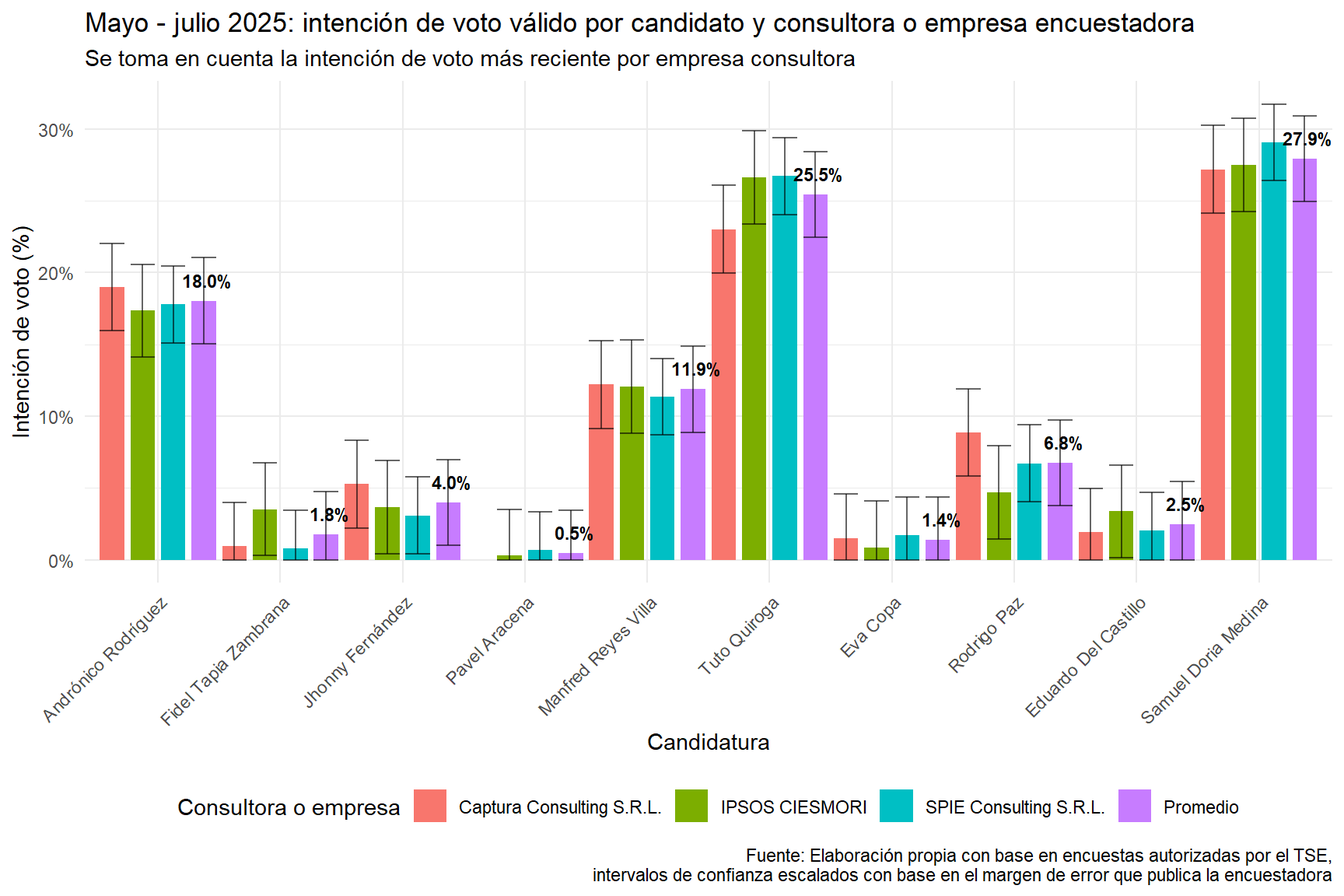
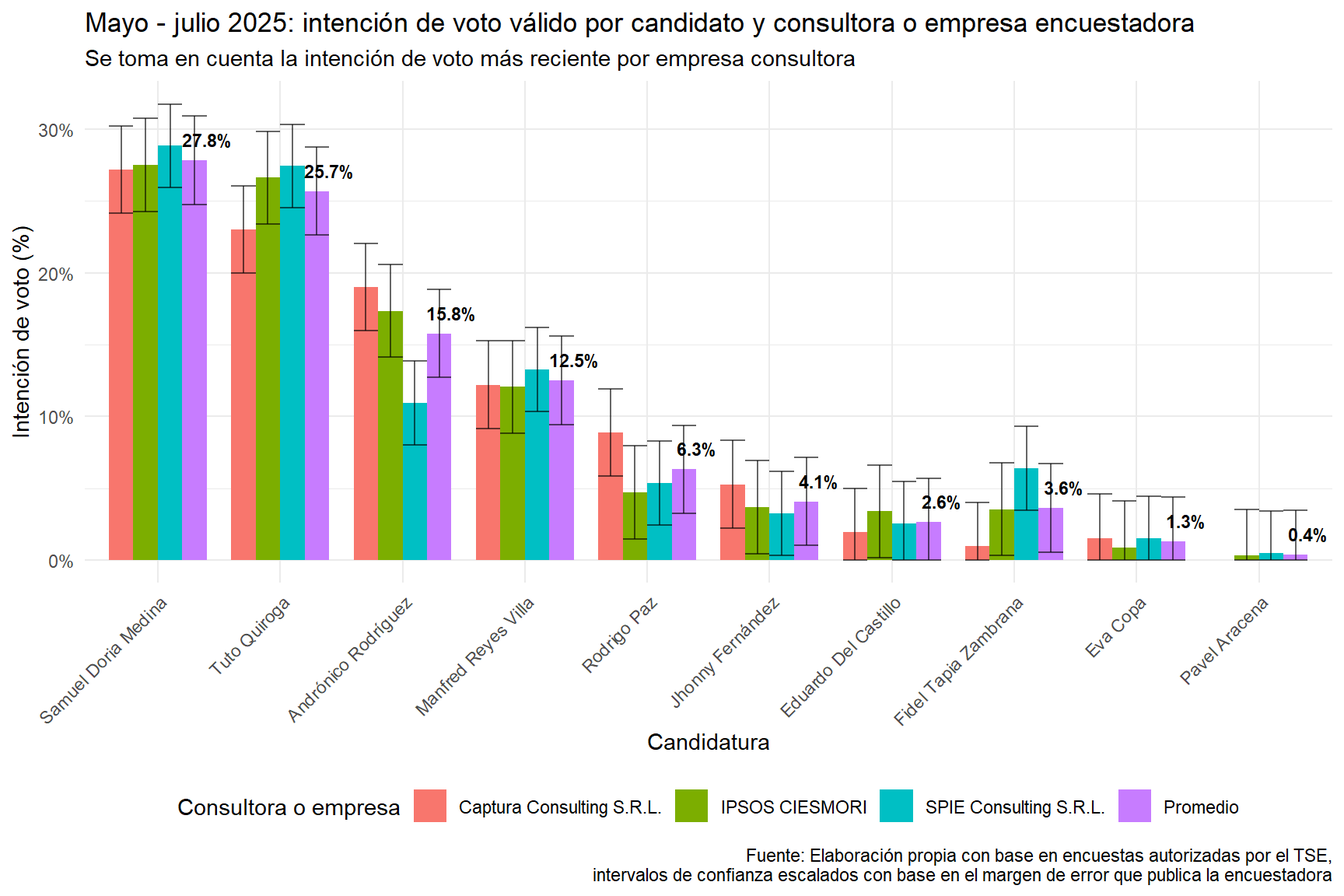
Built site for gh-pages

diff --git a/index.html b/index.html
@@ -101,6 +101,10 @@ ul.task-list li input[type="checkbox"] {
     <a class="nav-link" href="./#gráficos-de-intención-de-votos-válidos" rel="" target="">
  <span class="menu-text">Intención de voto válido</span></a>
   </li>  
+  <li class="nav-item">
+    <a class="nav-link" href="./#voto-oculto-y-precisión-de-las-encuestas-en-las-últimas-elecciones" rel="" target="">
+ <span class="menu-text">Voto oculto y precisión encuestadoras</span></a>
+  </li>  
 </ul>
             <ul class="navbar-nav navbar-nav-scroll ms-auto">
   <li class="nav-item compact">
@@ -128,6 +132,14 @@ ul.task-list li input[type="checkbox"] {
   <li><a href="#intención-de-voto-bolivia-última-encuesta-disponible" id="toc-intención-de-voto-bolivia-última-encuesta-disponible" class="nav-link" data-scroll-target="#intención-de-voto-bolivia-última-encuesta-disponible">Intención de voto Bolivia: Última encuesta disponible</a></li>
   <li><a href="#gráficos-de-intención-de-voto-total" id="toc-gráficos-de-intención-de-voto-total" class="nav-link" data-scroll-target="#gráficos-de-intención-de-voto-total">Gráficos de intención de voto total</a></li>
   <li><a href="#gráficos-de-intención-de-votos-válidos" id="toc-gráficos-de-intención-de-votos-válidos" class="nav-link" data-scroll-target="#gráficos-de-intención-de-votos-válidos">Gráficos de intención de votos válidos</a></li>
+  <li><a href="#voto-oculto-y-precisión-de-las-encuestas-en-las-últimas-elecciones" id="toc-voto-oculto-y-precisión-de-las-encuestas-en-las-últimas-elecciones" class="nav-link" data-scroll-target="#voto-oculto-y-precisión-de-las-encuestas-en-las-últimas-elecciones">Voto oculto y precisión de las encuestas en las últimas elecciones</a>
+  <ul class="collapse">
+  <li><a href="#las-encuestas-en-la-elección-de-2019" id="toc-las-encuestas-en-la-elección-de-2019" class="nav-link" data-scroll-target="#las-encuestas-en-la-elección-de-2019">Las encuestas en la elección de 2019</a></li>
+  <li><a href="#el-regreso-del-mas-ipsp-la-elección-de-2020" id="toc-el-regreso-del-mas-ipsp-la-elección-de-2020" class="nav-link" data-scroll-target="#el-regreso-del-mas-ipsp-la-elección-de-2020">El regreso del MAS-IPSP: la elección de 2020</a></li>
+  <li><a href="#estimación-del-voto-oculto" id="toc-estimación-del-voto-oculto" class="nav-link" data-scroll-target="#estimación-del-voto-oculto">Estimación del voto oculto</a></li>
+  </ul></li>
+  <li><a href="#qué-se-puede-esperar-del-voto-oculto-para-las-elecciones-de-2025" id="toc-qué-se-puede-esperar-del-voto-oculto-para-las-elecciones-de-2025" class="nav-link" data-scroll-target="#qué-se-puede-esperar-del-voto-oculto-para-las-elecciones-de-2025">¿Qué se puede esperar del voto oculto para las elecciones de 2025?</a></li>
+  <li><a href="#agradecimientos" id="toc-agradecimientos" class="nav-link" data-scroll-target="#agradecimientos">Agradecimientos</a></li>
   </ul>
 </nav>
 </nav>
@@ -141,7 +153,7 @@ ul.task-list li input[type="checkbox"] {
 <header id="title-block-header" class="quarto-title-block default">
 <div class="quarto-title">
 <h1 class="title">Encuesta de encuestas: Elecciones Generales Bolivia 2025</h1>
-<p class="subtitle lead">Última actualización: 14 de julio de 2025</p>
+<p class="subtitle lead">Última actualización: 16 de julio de 2025</p>
 </div>
 
 <div>
@@ -175,6 +187,7 @@ ul.task-list li input[type="checkbox"] {
 
 <section id="registro-de-cambios" class="level2">
 <h2 class="anchored" data-anchor-id="registro-de-cambios">Registro de cambios</h2>
+<p><strong>16/07/2025:</strong> Se añaden tres nuevas secciones: una sobre el voto oculto histórico y la precisión histórica de las encuestadoras tomando como referencia las elecciones de 2019 y 2020; otra sobre prospectiva del voto oculto en estas elecciones; y una de agradecimientos. Se añaden los datos de la última encuesta de SPIE publicada por El Deber el día de hoy, queda pendiente la reinterpretación a la luz de los últimos datos. Modificaciones estéticas menores. ¡Felicidades La Paz! :)</p>
 <p><strong>14/07/2025</strong>: Se introducen algunas ideas a la luz de los datos arrojados por la última encuesta de IPSOS CIESMORI. Se actualiza la presentación.</p>
 <p><strong>13/07/2025</strong>: Se añaden los datos de la última encuesta de IPSOS CIESMORI publicada por UNITEL el 13 de julio de 2025. Se optimiza el código para mostrar los promedios de campaña en función de la encuesta más reciente de cada consultora o empresa encuestadora (i.e.&nbsp;IPSOS CIESMORI es la única empresa que cuenta con dos encuestas durante el periodo de campaña, el cálculo de los promedio se hace con la intención de voto de su encuesta publicada hoy, es decir, el más reciente). Se añade nueva sección con los valores de intención de voto de la encuesta más reciente. Dado que NGP se ha retirado de la carrera electoral sus valores quedarán como perdidos de ahora en adelante. Se añaden rectas verticales marcando algunos hitos como el inicio de campaña, el primer debate y la inhabilitación de Jaime Dunn.</p>
 <p><strong>02/07/2025</strong>: Ante la inhabilitación de Jaime Dunn se cambia la etiqueta de candidato de NGP a Fidel Tapia Zambrana. La salida de Antonio Saravia también deja como el único candidato visible a Pavel Aracena por LyP-ADN. Modificaciones estéticas en gráficas de intención de voto para que den cuenta de la fecha del fin del levantamiento de las encuestas, se agrupó mayo y junio para gráficas de intención voto desde el inicio de campaña.</p>
@@ -198,9 +211,9 @@ ul.task-list li input[type="checkbox"] {
 </section>
 <section id="intención-de-voto-bolivia-última-encuesta-disponible" class="level2">
 <h2 class="anchored" data-anchor-id="intención-de-voto-bolivia-última-encuesta-disponible">Intención de voto Bolivia: Última encuesta disponible</h2>
-<p>Fecha de publicación: 13 de julio</p>
-<p>Consultora o empresa encuestadora: IPSOS CIESMORI</p>
-<p>Medio de publicación: UNITEL</p>
+<p>Fecha de publicación: 16 de julio</p>
+<p>Consultora o empresa encuestadora: SPIE Consulting S.R.L.</p>
+<p>Medio de publicación: El Deber</p>
 <div class="cell">
 <div class="cell-output-display">
 <p><img src="index_files/figure-html/grafico-ultimaencuesta-1.png" class="img-fluid" width="864"></p>
@@ -266,6 +279,285 @@ Asumiendo que, en etapas finales, alrededor del 5% de los votos serán nulos o b
 </div>
 </div>
 <p>En la virtual situación de que la elección fuera este fin de semana y que los indecisos no tomen partido alguno, la segunda vuelta sería contendida por Samuel Doria Medina y Tuto Quiroga Ramírez.</p>
+</section>
+<section id="voto-oculto-y-precisión-de-las-encuestas-en-las-últimas-elecciones" class="level2">
+<h2 class="anchored" data-anchor-id="voto-oculto-y-precisión-de-las-encuestas-en-las-últimas-elecciones">Voto oculto y precisión de las encuestas en las últimas elecciones</h2>
+<p>Esta sección revisará brevemente el comportamiento del voto oculto y la calidad predictiva de las consultoras comparando las últimas encuestas disponibles previas a las elecciones de 2019 y 2020, respectivamente. No es pretensión de este texto profundizar en la discusión sobre el golpe de estado en 2019, sin embargo, resultará inevitable abordar el asunto al momento de describir las cifras. Es importante señalar que los datos oficiales que se muestran aquí no coinciden con los resultados oficiales reportados por el Tribunal Supremo Electoral en ambas elecciones, esto se debe a que el TSE informa sobre los votos válidos, es decir, excluye los votos nulos y blancos para el cálculo de los porcentajes. Para fines de comparabilidad con los datos de las encuestadoras, se recalcularon las proporciones para que la votación de las candidaturas, blancos y nulos sumen el 100%.</p>
+<section id="las-encuestas-en-la-elección-de-2019" class="level3">
+<h3 class="anchored" data-anchor-id="las-encuestas-en-la-elección-de-2019">Las encuestas en la elección de 2019</h3>
+<p>Si bien fueron cuestionados, el análisis se basa en los resultados electorales oficiales publicados por el Tribunal Supremo Electoral. Al respecto, las encuestas de IPSOS y VIA CIENCIA fueron las más cercanas al resultado oficial reportado por el TSE; para el segundo lugar (Carlos D. Mesa) VIA CIENCIA y la UMSA son las que mostraron las estimaciones más próximas, aunque alejadas. Si observamos los intervalos de confianza, ni una sola de las encuestadoras estuvo próxima a los resultados oficiales de los dos primeros lugares en términos estadísticos.</p>
+<p>Si hablamos de los niveles de votos nulos y blancos, IPSOS fue la consultora que mejor estimó estas votaciones, y sus indecisos tendrían que haberse repartido de la siguiente manera, ~9% hacia Comunidad Ciudadana y ~4% hacia el MAS-IPSP, solo así se acercaría al resultado oficial. VIA CIENCIA también muestra una estimación aceptable de nulos y blancos, pero sus niveles de indecisión no cierran cuando se intenta repartirlos entre el primer y segundo lugar. Igualmente, todas las encuestadoras sin excepción sobre-estimaron el cuarto lugar (Oscar Ortíz) y subestimaron al <em>outsider</em> de esta elección, Chi Hyng Chung (PDC), que quedó tercero.</p>
+<div class="cell">
+<div class="cell-output-display">
+<p><img src="index_files/figure-html/grafico-2019-1.png" class="img-fluid" width="864"></p>
+</div>
+</div>
+<p>Es cuando menos improbable que todas las encuestas estén mal, el muestreo y la estimación estadística son disciplinas cuyo objetivo es dar grados de certeza administrando la incertidumbre de una manera científica -esto se hace calculando los márgenes de error del estudio y su nivel de confianza. No son una ciencia exacta, pero sí manejan parámetros de confiabilidad que, cuando se hacen bien, reflejan el comportamiento de la población que buscan representar, en este caso, la votación. A la luz de esto, “entusiastas” de la tesis del fraude podrían decir que la distorsión vino de la manipulación de la votación a favor del oficialismo. No obstante, de haber sucedido, no tiene sentido que todas las encuestadoras también hayan subestimado por tanto la votación de Carlos D. Mesa (Comunidad Ciudadana), principal opositor de Evo Morales en esas elecciones.</p>
+<p>Lo dicho nos reduce a los siguientes escenarios:</p>
+<ol type="1">
+<li><p>Todas las encuestadoras hicieron un mal diseño muestral (etapa de diseño del estudio), pésimos instrumentos (preguntas mal planteadas o que inducían a ciertas respuestas), un trabajo de campo deficiente (etapa de levantamiento de la información, es decir, personal encuestador poco hábil, que falsea respuestas o una pobre validación) o todas las anteriores. En este caso, los problemas vienen de la capacidad técnica de las empresas. Aquí puede incluirse también la tradicional falencia de las encuestadoras para representar de forma precisa la votación en las áreas rurales, en especial las dispersas, a lo largo del país.</p></li>
+<li><p>La población mostró cambios radicales en su intención de voto durante la semana y media previa a la elección.</p></li>
+</ol>
+<p>Debido a la inexistencia de un evento de importancia (i.e.&nbsp;la revelación del supuesto hijo de Evo con Gabriela Zapata un par de semanas antes del referéndum para la tercera postulación de Morales) que explique el cambio de corazón de las y los electores; y dado que los números tampoco muestran evidencia que permita hablar de una operación armada para tumbar al MAS-IPSP desde lo que reportan las encuestas, todo parece indicar que el escenario más probable es el primero.</p>
+<p>Sin embargo centrémonos en la estimación de la diferencia entre el primer y el segundo lugar, recordemos también que aquí no estamos observando la votación válida sino la total, es decir, que cuando se excluyan los votos nulos y blancos, todos los porcentajes crecen, en especial el primer y el segundo lugar:</p>
+<table class="table">
+<colgroup>
+<col style="width: 32%">
+<col style="width: 17%">
+<col style="width: 27%">
+<col style="width: 20%">
+</colgroup>
+<thead>
+<tr class="header">
+<th><strong>Consultora</strong></th>
+<th><strong>MAS-IPSP</strong></th>
+<th><strong>Comunidad Ciudadana</strong></th>
+<th><strong>Diferencia</strong></th>
+</tr>
+</thead>
+<tbody>
+<tr class="odd">
+<td><strong>Resultados Oficiales TSE</strong></td>
+<td><strong>44.7%</strong></td>
+<td><strong>34.7%</strong></td>
+<td><strong>+10.0%</strong></td>
+</tr>
+<tr class="even">
+<td>IPSOS</td>
+<td>40.0%</td>
+<td>22.0%</td>
+<td><strong>+18.0%</strong></td>
+</tr>
+<tr class="odd">
+<td>VIA CIENCIA</td>
+<td>38.8%</td>
+<td>28.4%</td>
+<td><strong>+10.4%</strong></td>
+</tr>
+<tr class="even">
+<td>CIESMORI</td>
+<td>36.2%</td>
+<td>26.9%</td>
+<td><strong>+9.3%</strong></td>
+</tr>
+<tr class="odd">
+<td>UMSA</td>
+<td>32.3%</td>
+<td>27.0%</td>
+<td><strong>+5.3%</strong></td>
+</tr>
+</tbody>
+</table>
+<p>Esto es importante porque un detonante de la crisis política fue la diferencia muy ajustada que permitía la victoria en primera vuelta. Recordemos que la Constitución y la Ley de Régimen Electoral bolivianas indican que la persona que preside el país es elegida en primera vuelta cuando:</p>
+<ol type="a">
+<li><p>Obtiene el <span class="math inline">\(50\% + 1\)</span> voto de la votación válida.</p></li>
+<li><p>Obtiene más del <span class="math inline">\(40\%\)</span> de votación válida con una diferencia de <span class="math inline">\(10\%\)</span> con el segundo lugar.</p></li>
+</ol>
+<p>Entonces, si tomamos en cuenta el ajuste en los porcentajes por la votación válida, los márgenes de error y los votos indecisos que se estimaron de forma consistente, al menos 3 de 4 consultoras predijeron la victoria del MAS-IPSP con más de 40% de votación y 10% de diferencia con la segunda fuerza política, Comunidad Ciudadana. Por tanto, la tesis del fraude no se sostiene desde el análisis de las encuestas electorales, mientras que el golpe de estado cobra más sentido, mencionaremos un poco más al respecto en la siguiente sección.</p>
+<p>Finalmente, si se hiciera una evaluación de qué consultoras fueron las menos imprecisas, IPSOS y VIA CIENCIA estiman los valores más parecidos al resultado oficial del primer lugar, y los blancos/nulos. Además, captan adecuadamente la diferencia entre el primero y el segundo. CIESMORI también representa bien esta diferencia, aunque subestima el primer y segundo lugar por casi 10 puntos.</p>
+</section>
+<section id="el-regreso-del-mas-ipsp-la-elección-de-2020" class="level3">
+<h3 class="anchored" data-anchor-id="el-regreso-del-mas-ipsp-la-elección-de-2020">El regreso del MAS-IPSP: la elección de 2020</h3>
+<p>Resulta inevitable dar una descripción coyuntural sintética para hablar de la elección de 2020, trataré aquí de presentar algunas ideas y caracterizaciones en las que existen consensos amplios y, en lo posible, despojadas de juicios de valor.</p>
+<p>La movilización de un sector de la población urbana volcada en las calles y la operación política de la dirigencia opositora en octubre y noviembre de 2019 resultaron en la interrupción del mandato constitucional de Evo Morales. El gobierno de Jeanine Añez se gestó de una manera, por decir lo menos, irregular. Pasó de segunda vicepresidenta a presidenta del senado en una sesión convocada por ella misma, sin el quórum suficiente, en la que no se respetó el reglameno de la cámara alta -pues, ante la renuncia de Adriana Salvatierra la presidencia debió recaer en el bloque de mayoría, es decir, el MAS-IPSP, no en su persona. Posteriormente, convocó a una sesión bi-camaral donde anunció que, por sucesión constitucional, asumía como presidenta del país. Trasladándose a Palacio Quemado - ubicado al frente del edificio de la Asamblea Legislativa- unos minutos después, juró como jefa de estado en medio de militares y dirigentes opositores. En este punto, sin importar si existió un fraude electoral o no -pues una irregularidad no es justificación para cometer otra, la forma en que Añez toma la presidencia confirma lo que se ha denominado como “golpe blando”.</p>
+<p>Lo señalado y el accionar de su gobierno devinieron en que su gestión esté marcada por:</p>
+<ol type="1">
+<li><p>La ilegitimidad y la tensión casi constante con el movimiento popular. Pues más allá de si la crisis política devino en un golpe o fue consecuencia de un fraude, Jeanine Añez era una figura desconocida, carente de una base social, legal y política que la respalde más allá de su partido -minoritario en la Asamblea Legislativa.</p></li>
+<li><p>Las masacres de Senkata y Sacaba, que inflamaron al movimiento popular, indígena y campesino, y lo arrojaron de regreso al liderazgo de la entonces oposición masista.</p></li>
+<li><p>La disrupción ocasionada por la pandemia, los constantes escándalos de corrupción y una respuesta gubernamental cuando menos ineficiente -sino negligente, y que además fue usada como excusa para alargar el mandato de un gobierno cuya única tarea era convocar a una nueva elección.</p></li>
+<li><p>El estilo autoritario del entonces Ministro de Gobierno, Arturo Murillo, quien en vez de tender puentes de diálogo con los movimientos sociales, los reprimía, deshumanizaba y criminalizaba.</p></li>
+</ol>
+<p>En este contexto es que se llega a las elecciones de octubre de 2020, en las que el MAS-IPSP participa en las urnas sin su candidato histórico -pues Evo Morales dio un paso al costado y además se encontraba fuera del país en calidad de refugiado. De esta manera, quién tomó la posta fue su ex Ministro de Economía, Luis Arce Catacora, el único miembro del gabinete que no había sido reemplazado durante los 14 años de gestión -solo estuvo fuera del cargo brevemente para atender una enfermedad en 2017, y que era percibido interna y externamente como el artífice del milagro económico boliviano. Arce también apelaba a un voto de la clase media y era un candidato más fácil de digerir para los sectores urbanos que se habían movilizado en las calles durante el golpe de 2019.</p>
+<div class="cell">
+<div class="cell-output-display">
+<p><img src="index_files/figure-html/grafico-2020-1.png" class="img-fluid" width="864"></p>
+</div>
+</div>
+<p>Volvamos a los datos, todos vimos como los resultados de la elección sacudieron al mundo, pues todas las predicciones erraron de forma monumental. Si bien 3 de 4 encuestadoras dieron la victoria a la candidatura que efectivamente ganó la elección, lo hicieron con una votación muchísimo menor. Es necesario matizar que durante esa elección también se veían niveles de indecisión elevados, en el orden del 15% en promedio, pero con grandes variaciones según la encuestadora -i.e.&nbsp;para CIESMORI los indecisos nulos y blancos estaban cerca del 28%, mientras que para la UMSA e IPSOS se encontraban en el orden del 21%.</p>
+<p>De esta manera, ninguna encuestadora previó una victoria en primera vuelta para el MAS-IPSP -más aún, para Mercados y Muestras la victoria era de Comunidad Ciudadana. De cualquier manera, el escrutinio nacional e internacional casi policial con el que se llevó a cabo el proceso electoral no permitió que se repita la narrativa del fraude que había funcionado en 2019. La diferencia entre Arce y Mesa era demasiado amplia para ponerse en duda. El MAS-IPSP ganó por mucho, pero niguna de las encuestadoras lo vio venir.</p>
+<p>IPSOS mostró la estimación puntual más cercana para el primer lugar, aunque quedó cerca de 19% por debajo del resultado oficial, su estimación tampoco muestra diferencias estadísticamente significativas con la UMSA ni CIESMORI. En lo que refiere al segundo lugar, casi todas las encuestadoras estimaron un intervalo de confianza que daba cuenta del resultado final, la excepción fue CIESMORI. Para el tercer lugar sucedió lo mismo que para el segundo.</p>
+<p>Ninguna encuestadora estimó votaciones por encima del 40% y menos una diferencia de 10% entre el primero y el segundo, es decir, las encuestas perfilaban una segunda vuelta. En este punto es necesario analizar el comportamiento de los indecisos: IPSOS fue la única encuestadora que estimó bien la votación de nulos, es decir que, entre blancos e indecisos estamos hablando de cerca de 17.2% -esto ajustando por las diferencias entre la estimación puntual de blancos y nulos con los resultados oficiales, y sumándolas a su porcentaje estimado de indecisos. Si comparamos los resultados reales, prácticamente la totalidad de los indecisos reales (indecisos estimados más blancos sobre-estimados más nulos subestimados) tuvo que haber votado por el MAS-IPSP, es decir, que el voto indeciso fue en realidad voto oculto masista.</p>
+<p>Hablemos ahora del estudio realizado por la UMSA, que es el que sigue en términos de precisión de sus estimaciones puntuales, emulando el ejercicio anterior su total de indecisos reales fueron alrededor de 16.6%. Para alcanzar el resultado real también es necesario que el total de esos indecisos se sume a la votación del MAS para alcanzar poco más del 50% de votación que obtuvo en los resultados oficiales.</p>
+<p>No analizaré los resultados de CIESMORI porque sus estimaciones para el segundo lugar, tercer lugar, blancos y nulos no fueron estadísticamente precisas, pero al menos no erró en las grandes tendencias. No puede decirse lo mismo de la encuesta de Mercados y Muestras, que estimaba un empate técnico con victoria para el segundo lugar. Este es el único estudio completamente inconsistente con todos los demás, además de que sus reportes no diferencian entre blancos e indecisos. En suma, los hallazgos de esta última encuestadora parecen responder a intereses completamente ajenos a un ejercicio estadístico serio.</p>
+</section>
+<section id="estimación-del-voto-oculto" class="level3">
+<h3 class="anchored" data-anchor-id="estimación-del-voto-oculto">Estimación del voto oculto</h3>
+<p>Para fines analíticos me planteo estimar el voto oculto de la siguiente manera:</p>
+<p><span class="math display">\[\text{Voto oculto} = \text{Indecisos/No Declarados} + |\text{Blancos}_{\text{estimado}} - \text{Blancos}_{\text{oficial}}| + |\text{Nulos}_{\text{estimado}} - \text{Nulos}_{\text{oficial}}|\]</span></p>
+<p><strong>Ventajas</strong>:</p>
+<ol type="1">
+<li><strong>Simple</strong>: Usa datos disponibles en todas las encuestas.</li>
+<li><strong>Comparable</strong>: Permite jerarquizar a las consultoras por potencial subestimación o sobre-estimación.</li>
+</ol>
+<p><strong>Falencias</strong>:</p>
+<ol type="1">
+<li><strong>Indecisos ≠ ocultos</strong>: Algunos indecisos terminan votando en blanco o nulos.</li>
+<li><strong>Asimetría</strong>: No distingue si el error fue sobrestimación o subestimación.</li>
+<li><strong>Incertidumbre en su asignación</strong>: No es posible saber con seguridad a qué partido terminaron beneficiando.</li>
+</ol>
+<p><strong>Idoneidad</strong>:</p>
+<ul>
+<li><strong>Caso boliviano</strong>: Las encuestas sistemáticamente sobrestiman blancos/nulos, sugiriendo ocultamiento real.</li>
+<li><strong>Fines prácticos</strong>: Aunque imperfecta, es un indicador útil para ajustar interpretaciones.</li>
+</ul>
+<p><strong>Supuestos</strong></p>
+<ul>
+<li>Las personas encuestadas <strong>no mienten</strong> sobre su intención de voto.</li>
+<li>Los votos no declarados terminan siendo <strong>mayoritariamente votos válidos</strong>, no nulos ni blancos.</li>
+</ul>
+<section id="voto-oculto-en-las-elecciones-2019-y-2020" class="level4">
+<h4 class="anchored" data-anchor-id="voto-oculto-en-las-elecciones-2019-y-2020">Voto oculto en las elecciones 2019 y 2020</h4>
+<p>En el caso de Bolivia es necesario explicar una condición específica que se dio en 2019. Todo indica que el voto oculto se reparte mayoritariamente entre las dos primeras fuerzas. Si bien es temerario asumir esto, en esa elección las tercera fuerza fuerza política fue subestimada por las encuestas casi en la misma proporción en que la cuarta fue sobre-estimada, y las demás presentan niveles de votación mínimos, por lo que la circulación del de voto oculto tuvo que darse en las candidaturas que muestran mayores variaciones con el resultado oficial, es decir, el MAS-IPSP y Comunidad Ciudadana.</p>
+<p>En 2020, el voto de todas las candidaturas, a excepción de la ganadora, fue en general bien estimado, por lo que no hay consideraciones adicionales puesto que el voto oculto irá mayoritariamente a la fuerza política con mayor variación entre sus estimaciones y el resultado oficial, es decir, al MAS-IPSP.</p>
+<p>Dicho esto, tenemos dos escenarios</p>
+<p><strong><em>Escenario 1. Elecciones 2019</em></strong></p>
+<p><em>Características de coyuntura:</em> Niveles de indecisión moderados (en torno a los 10 y 15 puntos porcentuales). Entorno económico sólido. Clima social atemperado pero presto a ebullir. Previa derrota electoral del MAS (21-F). Gobierno previo legítimo, aunque debilitado. Operación política y comunicativa para crear desconfianza en la elección.</p>
+<p><em>Estimación del voto oculto:</em></p>
+<table class="table">
+<colgroup>
+<col style="width: 11%">
+<col style="width: 21%">
+<col style="width: 10%">
+<col style="width: 9%">
+<col style="width: 12%">
+<col style="width: 16%">
+<col style="width: 15%">
+</colgroup>
+<thead>
+<tr class="header">
+<th style="text-align: center;"><strong>Consultora</strong></th>
+<th style="text-align: center;"><strong>Indecisos / No Declarados</strong></th>
+<th style="text-align: center;"><strong>Δ Blancos</strong></th>
+<th style="text-align: center;"><strong>Δ Nulos</strong></th>
+<th style="text-align: center;"><strong>Voto oculto</strong></th>
+<th style="text-align: center;"><p><strong>MAS-IPSP</strong></p>
+<p><strong>(Oficial: 44.7%)</strong></p></th>
+<th style="text-align: center;"><p><strong>CC</strong></p>
+<p><strong>(Oficial: 34.7%)</strong></p></th>
+</tr>
+</thead>
+<tbody>
+<tr class="odd">
+<td style="text-align: center;">IPSOS</td>
+<td style="text-align: center;">13%</td>
+<td style="text-align: center;">%0.4</td>
+<td style="text-align: center;">0.5%</td>
+<td style="text-align: center;"><strong>13.9%</strong></td>
+<td style="text-align: center;">40.0% (-4.7 pp)</td>
+<td style="text-align: center;">22.0% (-12.7 pp)</td>
+</tr>
+<tr class="even">
+<td style="text-align: center;">VIA CIENCIA</td>
+<td style="text-align: center;">6.6%</td>
+<td style="text-align: center;">%0.1</td>
+<td style="text-align: center;">0.9%</td>
+<td style="text-align: center;"><strong>7.6%</strong></td>
+<td style="text-align: center;">38.8% (-5.9 pp)</td>
+<td style="text-align: center;">28.4% (-6.3 pp)</td>
+</tr>
+<tr class="odd">
+<td style="text-align: center;">CIESMORI</td>
+<td style="text-align: center;">11.3%</td>
+<td style="text-align: center;">%4.8</td>
+<td style="text-align: center;">1.8%</td>
+<td style="text-align: center;"><strong>17.9%</strong></td>
+<td style="text-align: center;">36.2% (-8.5 pp)</td>
+<td style="text-align: center;">26.9% (-7.8 pp)</td>
+</tr>
+<tr class="even">
+<td style="text-align: center;"><strong>Promedio</strong></td>
+<td style="text-align: center;"><strong>10.3%</strong></td>
+<td style="text-align: center;"><strong>1.8%</strong></td>
+<td style="text-align: center;"><strong>1.1%</strong></td>
+<td style="text-align: center;"><strong>13.1%</strong></td>
+<td style="text-align: center;"><strong>38.3% (-6.4 pp)</strong></td>
+<td style="text-align: center;"><strong>25.8% (-8.9 pp)</strong></td>
+</tr>
+</tbody>
+</table>
+<p><em>Comportamiento del voto oculto:</em> Expresados en indecisos y sobrestimación/subestimación de blancos y nulos, muestran un comportamiento más o menos equilibrado entre las dos primeras fuerzas, favoreciendo un poco más a la segunda (Comunidad Ciudadana) que a la primera (MAS-IPSP). Los datos indican que el voto oculto fue subestimado por alrededor de 2 puntos porcentuales, es decir, que más allá de los errores, 2.4% de los votos fueron asignados a fuerzas que no eran y en realidad beneficaban al primer y segundo lugar. Además, en promedio, 58% del voto oculto tuvo que ir a Carlos D. Mesa y 42% a Evo Morales.</p>
+<p><strong><em>Escenario 2. Elecciones 2020</em></strong></p>
+<p><em>Características de coyuntura:</em> Niveles de indecisión altos (entorno al 20%). Entorno económico pauperizado (por la pandemia del COVID-19). Clima social tenso. Previa derrota electoral-institucional del MAS (desconocimiento de la elección previa y golpe blando). Gobierno previo ilegítimo (Añez). Alto grado de confianza en la elección.</p>
+<p><em>Estimación del voto oculto:</em></p>
+<table class="table">
+<colgroup>
+<col style="width: 11%">
+<col style="width: 21%">
+<col style="width: 10%">
+<col style="width: 9%">
+<col style="width: 12%">
+<col style="width: 15%">
+<col style="width: 15%">
+</colgroup>
+<thead>
+<tr class="header">
+<th style="text-align: center;"><strong>Consultora</strong></th>
+<th style="text-align: center;"><strong>Indecisos / No Declarados</strong></th>
+<th style="text-align: center;"><strong>Δ Blancos</strong></th>
+<th style="text-align: center;"><strong>Δ Nulos</strong></th>
+<th style="text-align: center;"><strong>Voto oculto</strong></th>
+<th style="text-align: center;"><p><strong>MAS-IPSP</strong></p>
+<p><strong>(Oficial: 52.3%)</strong></p></th>
+<th style="text-align: center;"><p><strong>CC</strong></p>
+<p><strong>(Oficial: 27.4%)</strong></p></th>
+</tr>
+</thead>
+<tbody>
+<tr class="odd">
+<td style="text-align: center;">UMSA</td>
+<td style="text-align: center;">9.9%</td>
+<td style="text-align: center;">4%</td>
+<td style="text-align: center;">2.7%</td>
+<td style="text-align: center;"><strong>16.6%</strong></td>
+<td style="text-align: center;">33.6% (-18.7 pp)</td>
+<td style="text-align: center;">26.8% (-0.6 pp)</td>
+</tr>
+<tr class="even">
+<td style="text-align: center;">IPSOS</td>
+<td style="text-align: center;">10%</td>
+<td style="text-align: center;">5.8%</td>
+<td style="text-align: center;">1.4%</td>
+<td style="text-align: center;"><strong>17.2%</strong></td>
+<td style="text-align: center;">34.0% (-18.3 pp)</td>
+<td style="text-align: center;">27.9% (+0.5 pp)</td>
+</tr>
+<tr class="odd">
+<td style="text-align: center;">CIESMORI</td>
+<td style="text-align: center;">21.8%</td>
+<td style="text-align: center;">3.4%</td>
+<td style="text-align: center;">2.3%</td>
+<td style="text-align: center;"><strong>27.5%</strong></td>
+<td style="text-align: center;">32.4% (-19.9 pp)</td>
+<td style="text-align: center;">24.5% (-2.9 pp)</td>
+</tr>
+<tr class="even">
+<td style="text-align: center;"><strong>Promedio</strong></td>
+<td style="text-align: center;"><strong>13.9%</strong></td>
+<td style="text-align: center;"><strong>4.4%</strong></td>
+<td style="text-align: center;"><strong>2.1%</strong></td>
+<td style="text-align: center;"><strong>20.4%</strong></td>
+<td style="text-align: center;"><strong>33.3% (-19.0 pp)</strong></td>
+<td style="text-align: center;"><strong>26.4% (-1.0 pp)</strong></td>
+</tr>
+</tbody>
+</table>
+<p><em>Comportamiento del voto oculto:</em> Expresados en indecisos y sobrestimación/subestimación de blancos y nulos. Hay una sobre-estimación mínima del voto oculto (0.4%), el 99.5% del voto oculto terminó en el MAS-IPSP.</p>
+</section>
+</section>
+</section>
+<section id="qué-se-puede-esperar-del-voto-oculto-para-las-elecciones-de-2025" class="level2">
+<h2 class="anchored" data-anchor-id="qué-se-puede-esperar-del-voto-oculto-para-las-elecciones-de-2025">¿Qué se puede esperar del voto oculto para las elecciones de 2025?</h2>
+<p>Hasta el momento las características de la coyuntura actual se corresponden mejor con la elección de 2020. Los niveles de indecisión están sobre el 21%, la crisis económica es la peor en décadas y el clima social pende de un hilo. Es justamente la perspectiva la elección lo que, de alguna manera, contiene un estallido social generalizado; más que gozar de confianza, para la mayoría de las y los bolivianos, la elección es percibida como un medio para salir de la crisis -si esta expectativa es justificada o no es cuestión de otra discusión. El gobierno de Arce se encuentra en mínimos históricos de aprobación, y continuas denuncias por corrupción, por lo que su legitimidad es muy débil.</p>
+<p>Sin embargo, sería un grave error pensar que los escenarios de 2020 y el que enfrentamos hoy son intercambiables de forma mecánica. Si bien hay similitudes, existen muchos matices que hacen a esta elección todavía más incierta. La principal que yo percibo se relaciona con la legitimidad de las candidaturas. Las encuestas muestran que los votos no válidos (indecisos, blancos y nulos) van en aumento. En 2020 la población fue a las urnas para sacar al gobierno de Añez, y abrazó al MAS-IPSP -poniendo a un lado los desacuerdos que podía tener con dicho partido- como un símbolo de estabilidad y eficiencia gubernamental que representaba una cotidianidad mejor. Hoy, la crisis económica sume al pueblo boliviano en un <em>deja vú</em> de lo que le pasó en el 85 durante el gobierno de la UDP.</p>
+<p>Sumado a esto, la judicialización de la elección y la ausencia de Evo Morales en la papeleta electoral solo deslegitima más el todo el proceso, no hablo aquí de la elección como un mecanismo para nombrar representantes, sino de la democracia misma. Y ese desencanto no solo es observable en los partidarios del evismo, sino en todo el electorado al que todas las candidaturas están siendo incapaces de llegar y convencer.</p>
+<p>Si bien a estas alturas es claro que un sector importante del electorado muestra animadversión, no le interesa si Evo es candidato o no lo es, o, simplemente, prefiere que la elección se realice lo antes posible; no es menos cierto que sigue siendo el actor político más importante del país. Basta revisar los medios de comunicación, las declaraciones de la clase política, las entrevistas de los candidatos. Todos sin excepción hablan de Evo, del evismo, de lo que hace o deja de hacer, lo que dice o deja de decir. Guste o no guste, quien sigue marcando la pauta en la política boliviana se encuentra en atrincherado en algún lugar del trópico cochabambino, impedido de participar en la elección.</p>
+<p>En mi opinión, esto no significa que la participación de Evo en la elección hubiera significado automáticamente la victoria del masismo. Sin embargo, si la oposición u otras vertientes del MAS-IPSP querían dejar atrás al histórico caudillo, era necesario hacerlo en el campo político, no en el judicial.</p>
+<p>Volvamos al tema principal, el comportamiento del voto oculto. Dada la coyuntura actual, si Andrónico Rodríguez logra convencer al electorado de que representa el regreso a la estabilidad de los primeros 14 años del MAS-IPSP, lo más probable es que el voto oculto latente pueda volcarse en buena medida hacia él, pensemos en alrededor de un ~16%. Los últimos datos (16/07/2020) confirman que no lo está logrando, su intención de voto va hacia la baja, su tardío inicio de campaña y propuestas que no resuenan ni emocionan en la gente están sepultando sus oportunidades en esta elección. Pero el desempeño de Andrónico también se explica por un factor adicional, la reticencia de Evo a brindarle su apoyo, o al menos no atacarlo, ni llamar a sus partidarios a votar nulo. Si esta actitud se mantiene, el potencial crecimiento de Andrónico Rodríguez se limita de forma importante, yo creo -y por esta vez, sin otra herramienta que mi intución- que este puede reducirse a la mitad, es decir, que en el contexto actual el voto oculto de Andrónico apenas alcanzaría un ~8%.</p>
+<p>No me animo a tratar de entender las razones por las que Evo no está dispuesto a conciliar. Lo que sí puedo decir es que si el pragmatismo político que llame a una unidad del masismo escindido, y otras corrientes progresistas o populares, no prima por encima de las rencillas y diferencias que han fracturado al MAS-IPSP, es altamente probable que la segunda vuelta la disputen dos partidos de derecha.</p>
+</section>
+<section id="agradecimientos" class="level2">
+<h2 class="anchored" data-anchor-id="agradecimientos">Agradecimientos</h2>
+<p>Agradezco las revisiones y sugerencias de Shirley Aguilar Miranda, Elvia Chavarría Martínez, Carlos Ernesto Peñaranda Sánchez y Víctor Hugo Calisaya Hinojosa.</p>
 
 
 </section>
